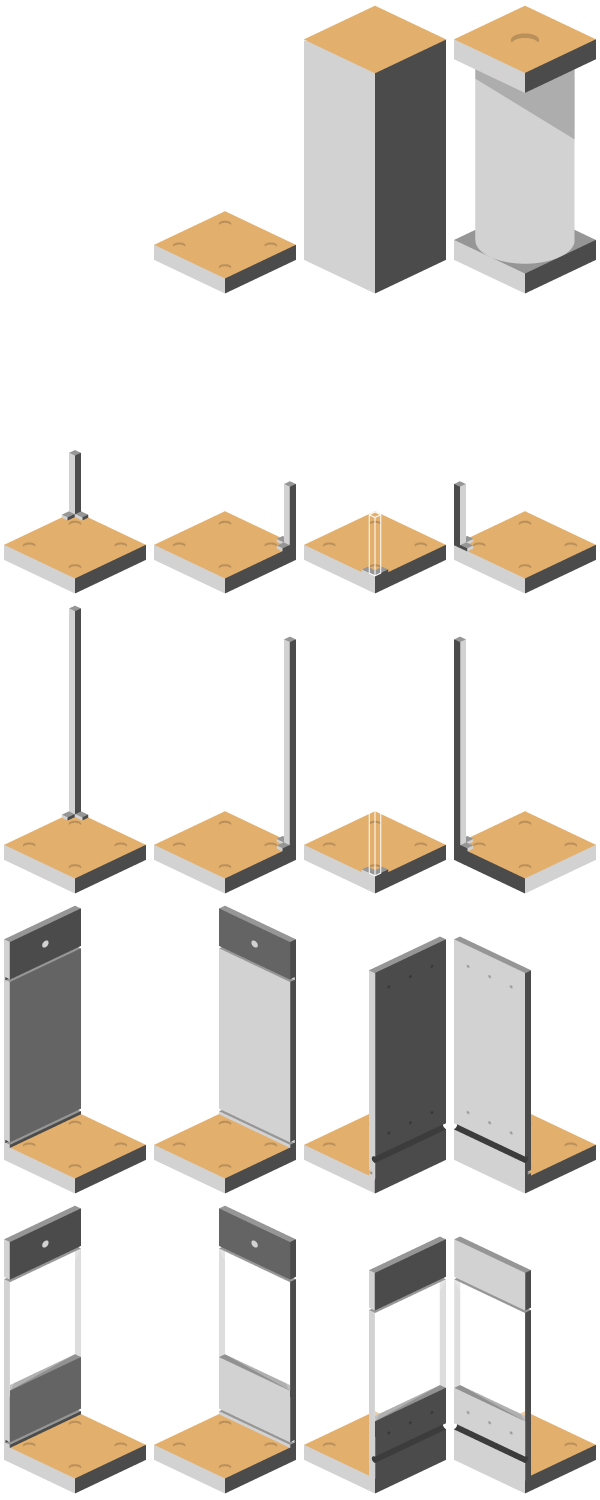
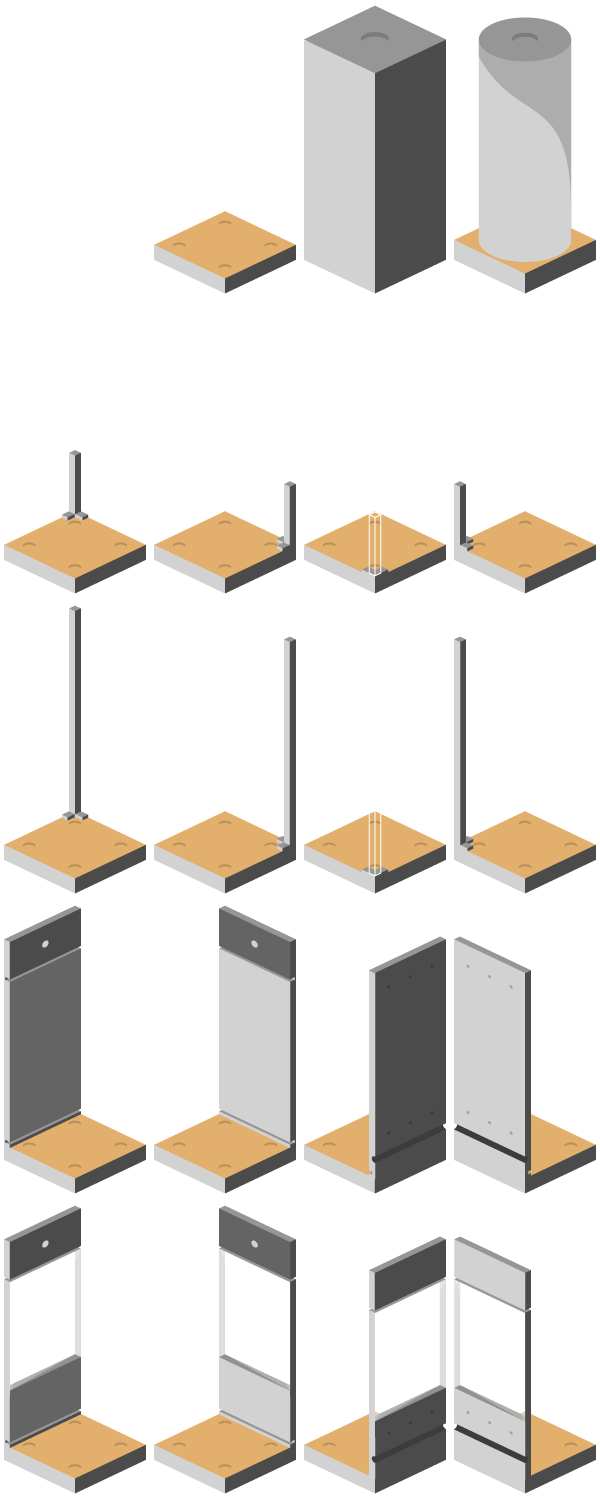
flip textures
Shift to outlined walls surrounding the character

diff --git a/js/levels_new.js b/js/levels_new.js
@@ -56,14 +56,14 @@ floor_1[0]=[,,,,,,,,,,,,,,,,,,,];
 floor_1[1]=[,,,,,,,,,,,,,,,,,,,];
 floor_1[2]=[,,,,,,,,,,,,,,,,,,,];
 floor_1[3]=[,,,,,,,,,,,,,,,,,,,];
-floor_1[4]=[,,,,29,18,378,378,378,378,25,142,150,154,158,30,,,,];
+floor_1[4]=[,,,,29,18,378,378,378,378,25,14,14,14,14,30,,,,];
 floor_1[5]=[,,,,17,2,2,2,2,2,2,2,2,2,2,19,,,,];
 floor_1[6]=[,,,,28,16,12,2,2,2,2,2,2,2,2,19,,,,];
-floor_1[7]=[,,,,97,137,13,169,171,2,169,171,2,2,2,19,,,,];
-floor_1[8]=[,,,,93,133,13,169,171,2,169,171,2,2,2,19,,,,];
-floor_1[9]=[,,,,89,129,13,169,171,2,169,171,2,2,2,19,,,,];
-floor_1[10]=[,,,,85,125,13,169,171,2,169,171,2,2,2,19,,,,];
-floor_1[11]=[,,,,81,121,13,169,171,2,169,171,2,2,2,19,,,,];
+floor_1[7]=[,,,,97,137,13,2,2,2,2,2,2,2,2,19,,,,];
+floor_1[8]=[,,,,93,133,13,2,2,2,2,2,2,2,2,19,,,,];
+floor_1[9]=[,,,,89,129,13,2,2,2,2,2,2,2,2,19,,,,];
+floor_1[10]=[,,,,85,125,13,2,2,2,2,2,2,2,2,19,,,,];
+floor_1[11]=[,,,,81,121,13,2,2,2,2,2,2,2,2,19,,,,];
 floor_1[12]=[,,,,17,2,2,2,2,2,2,2,2,2,2,19,,,,];
 floor_1[13]=[,,,,17,2,2,2,2,2,2,2,2,2,2,19,,,,];
 floor_1[14]=[,,,,17,2,2,2,2,2,2,2,2,2,2,19,,,,];
@@ -72,42 +72,42 @@ floor_1[16]=[,,,,,,,,,,,,,,,,,,,];
 floor_1[17]=[,,,,,,,,,,,,,,,,,,,];
 floor_1[18]=[,,,,,,,,,,,,,,,,,,,];
 floor_1[19]=[,,,,,,,,,,,,,,,,,,,];
-floor_2[0]=[602,602,602,602,602,602,602,602,602,602,602,602,602,602,602,602,602,602,602,602];
-floor_2[1]=[602,549,542,542,542,542,542,542,542,542,542,542,542,542,542,542,542,542,550,602];
-floor_2[2]=[602,541,601,601,601,601,601,601,601,601,601,601,601,601,601,601,601,601,543,602];
-floor_2[3]=[602,541,601,601,601,601,601,601,601,601,601,601,601,601,601,601,601,601,543,602];
-floor_2[4]=[602,541,601,601,29,18,18,18,18,18,18,18,18,18,18,30,601,601,543,602];
-floor_2[5]=[602,541,601,601,17,2,2,2,2,2,2,2,2,2,2,19,601,601,543,602];
-floor_2[6]=[602,541,601,601,17,2,2,2,2,2,2,2,2,2,2,63,601,601,543,602];
-floor_2[7]=[602,541,601,601,17,2,2,2,2,2,2,2,2,2,2,67,601,601,543,602];
-floor_2[8]=[602,541,601,601,17,2,2,2,2,2,2,2,2,2,2,19,601,601,543,602];
-floor_2[9]=[602,541,601,601,17,2,2,2,2,2,2,2,2,2,2,19,601,601,543,602];
-floor_2[10]=[602,541,601,601,205,194,194,194,194,194,194,342,242,246,350,206,601,601,543,602];
-floor_2[11]=[602,541,601,601,193,182,182,182,182,182,182,182,182,182,182,195,601,601,543,602];
-floor_2[12]=[602,541,601,601,329,182,321,182,182,321,182,182,321,182,182,331,601,601,543,602];
-floor_2[13]=[602,541,601,601,329,182,321,182,182,321,182,182,321,182,182,331,601,601,543,602];
-floor_2[14]=[602,541,601,601,193,196,196,196,196,196,192,182,182,182,182,195,601,601,543,602];
-floor_2[15]=[602,541,601,601,208,284,288,292,296,300,208,196,196,196,196,207,601,601,543,602];
-floor_2[16]=[602,541,601,601,601,601,601,601,601,601,601,601,601,601,601,601,601,601,543,602];
-floor_2[17]=[602,541,601,601,601,601,601,601,601,601,601,601,601,601,601,601,601,601,543,602];
-floor_2[18]=[602,552,544,544,544,544,544,544,544,544,544,544,544,544,544,544,544,544,551,602];
-floor_2[19]=[602,602,602,602,602,602,602,602,602,602,602,602,602,602,602,602,602,602,602,602];
+floor_2[0]=[602,602,602,569,602,602,602,602,602,602,602,602,602,602,602,602,602,569,602,602];
+floor_2[1]=[602,602,602,569,602,563,602,563,602,563,602,563,602,563,602,563,602,569,602,602];
+floor_2[2]=[602,602,602,569,602,602,602,602,602,602,602,602,602,602,602,602,602,569,602,602];
+floor_2[3]=[602,602,602,549,542,542,542,542,542,542,542,542,542,542,542,542,542,550,602,602];
+floor_2[4]=[602,602,602,541,29,18,18,18,18,18,18,18,18,18,18,30,601,543,602,602];
+floor_2[5]=[602,602,602,541,17,2,2,2,2,2,2,2,2,2,2,19,601,543,602,602];
+floor_2[6]=[602,602,602,541,17,2,2,2,2,2,2,2,2,2,2,63,601,543,602,602];
+floor_2[7]=[602,602,602,541,369,367,2,2,2,2,2,2,2,2,2,67,601,543,602,602];
+floor_2[8]=[602,602,602,541,409,367,2,2,2,2,2,2,2,2,2,19,601,543,602,602];
+floor_2[9]=[602,602,602,541,409,367,2,2,2,2,2,2,2,2,2,19,601,543,602,602];
+floor_2[10]=[602,602,602,541,409,0,205,198,198,198,198,342,242,246,350,210,601,543,602,602];
+floor_2[11]=[602,602,602,541,420,0,217,182,182,182,182,182,182,182,182,199,601,543,602,602];
+floor_2[12]=[602,602,602,541,420,0,217,182,182,182,182,182,182,182,182,199,601,543,602,602];
+floor_2[13]=[602,602,602,541,420,0,208,196,196,196,196,182,182,182,182,199,601,543,602,602];
+floor_2[14]=[602,602,602,541,183,183,320,316,312,308,304,182,182,182,182,199,601,543,602,602];
+floor_2[15]=[602,602,602,541,183,183,280,276,272,268,264,200,200,200,200,211,601,543,602,602];
+floor_2[16]=[602,602,602,552,544,544,544,544,544,544,544,544,544,544,544,544,544,551,602,602];
+floor_2[17]=[602,602,602,569,602,602,602,602,602,602,602,602,602,602,602,602,602,569,602,602];
+floor_2[18]=[602,602,602,569,602,563,602,563,602,563,602,563,602,563,602,563,602,569,602,602];
+floor_2[19]=[602,602,602,569,602,602,602,602,602,602,602,602,602,602,602,602,602,569,602,602];
 floor_3[0]=[,,,,,,,,,,,,,,,,,,,];
 floor_3[1]=[,,,,,,,,,,,,,,,,,,,];
 floor_3[2]=[,,,,,,,,,,,,,,,,,,,];
 floor_3[3]=[,,,,,,,,,,,,,,,,,,,];
-floor_3[4]=[,,,,870,862,862,862,862,862,862,862,862,862,862,870,,,,];
-floor_3[5]=[,,,,825,821,821,821,821,821,821,821,821,821,821,827,,,,];
-floor_3[6]=[,,,,825,821,821,821,821,821,821,821,821,821,821,827,,,,];
-floor_3[7]=[,,,,825,881,821,821,821,821,821,821,821,821,821,827,,,,];
-floor_3[8]=[,,,,829,821,821,821,821,821,821,821,821,821,821,831,,,,];
-floor_3[9]=[,,,,825,821,821,821,821,821,821,821,821,821,821,827,,,,];
-floor_3[10]=[,,,,825,821,821,821,821,821,821,821,821,821,821,827,,,,];
-floor_3[11]=[,,,,829,821,821,821,821,821,821,821,821,821,821,831,,,,];
-floor_3[12]=[,,,,825,821,821,821,821,821,821,821,821,821,821,827,,,,];
-floor_3[13]=[,,,,825,821,821,821,821,821,821,821,821,821,821,827,,,,];
-floor_3[14]=[,,,,825,821,821,821,821,821,821,821,821,821,821,827,,,,];
-floor_3[15]=[,,,,872,864,864,864,864,864,864,864,864,864,868,872,,,,];
+floor_3[4]=[,,,,641,646,646,646,646,646,646,646,646,646,646,642,,,,];
+floor_3[5]=[,,,,645,718,718,718,718,718,718,718,718,718,718,647,,,,];
+floor_3[6]=[,,,,645,718,718,718,718,718,718,718,718,718,718,647,,,,];
+floor_3[7]=[,,,,645,718,718,718,718,718,718,718,718,718,718,647,,,,];
+floor_3[8]=[,,,,645,718,718,718,718,718,718,718,718,718,718,647,,,,];
+floor_3[9]=[,,,,644,648,652,656,656,656,660,648,688,648,648,643,,,,];
+floor_3[10]=[,,,,217,182,182,182,182,182,182,182,182,182,182,219,,,,];
+floor_3[11]=[,,,,217,182,182,182,182,182,182,182,182,182,182,219,,,,];
+floor_3[12]=[,,,,217,182,182,182,182,182,182,182,182,182,182,219,,,,];
+floor_3[13]=[,,,,217,182,182,182,182,182,182,182,182,182,182,219,,,,];
+floor_3[14]=[,,,,217,182,366,366,366,366,362,182,182,182,182,219,,,,];
+floor_3[15]=[,,,,208,220,372,412,412,412,419,220,220,220,220,207,,,,];
 floor_3[16]=[,,,,,,,,,,,,,,,,,,,];
 floor_3[17]=[,,,,,,,,,,,,,,,,,,,];
 floor_3[18]=[,,,,,,,,,,,,,,,,,,,];

diff --git a/js/player_move.js b/js/player_move.js
@@ -24,21 +24,17 @@ function showNPC(pos,floor){
 	$('#selec'+floor+'_'+pos.y+'_'+pos.x).css('display','none');
 };
 
-//var 	posA={y:15,x:10};
-//var	posB={y:"",x:""};
-//var	npcA={y:7, x:12};
-//var	playerOr=1;
-
 function clickTile(floor){
 	$('.tileSelec').click(function(){
+		var lim=eval('floor_'+floor).length;
 		$('.tileSelec').hide();
 		$('.mapObj').remove();
 		var newPos={y:parseInt($(this).attr('ypos')),x:parseInt($(this).attr('xpos'))};
 		var newOri=rotatePlayerPos(Player.cam, Player.coord,20);
 		var	color=getColor(rotateLevel(eval('floor_'+floor),Player.cam)[newOri.y][newOri.x]);
-		console.log("click: "+newPos.y+","+newPos.x);
+		/*console.log("click: "+newPos.y+","+newPos.x);
 		console.log("from: "+newOri.y+","+newOri.x);
-		console.log(color);
+		console.log(color);*/
 		var	arr=[];
 		arr=rotateLevel(eval('floor_'+floor),Player.cam);
 		$('#buttons').fadeOut('fast');
@@ -51,6 +47,8 @@ function clickTile(floor){
 		}else{
 			console.log(route);
 		}
+		clearWalls(lim,"show");
+		//restoreWalls(lim,newOri,floor);
 	});
 };
 
@@ -79,7 +77,7 @@ function playerFace(val,type){
 function getDepths(route,f){
 	var	a=[];
 	//console.log(route.length);
-		//a[0]=parseInt($('#tile'+f+"_"+posA.y+"_"+posA.x).css('z-index'));
+	//a[0]=parseInt($('#tile'+f+"_"+posA.y+"_"+posA.x).css('z-index'));
 	//a.push("p: "+parseInt($('#tile'+f+"_"+posA.y+"_"+posA.x).css('z-index')));
 	for(var r=0;r<route.length;r++){
 		var	uno=parseInt($('#tile'+f+"_"+route[r].y+"_"+route[r].x).css('z-index')),
@@ -105,7 +103,8 @@ function processToMove(route,floor,newPos){
 	var	mt=$('#tile'+floor+"_"+route[ptm].y+"_"+route[ptm].x),
 		mik={y: parseInt(mt.position().top),x: parseInt(mt.position().left)},
 		px="px",
-		dep=parseInt(mt.css('z-index'));
+		dep=parseInt(mt.css('z-index')),
+		lang=eval("floor_"+floor).length;
 
 	var lal=getDepths(route,floor);
 	
@@ -135,19 +134,19 @@ function processToMove(route,floor,newPos){
 		ptm=0;
 
 		//////////update new position///////////////
-		//Player.coord=newPos;
 		switch(Player.cam){
 			case 'ori': Player.coord=newPos; break;
-			case 'rev': Player.coord=rotatePlayerPos('rot',newPos,20); break;
-			case 'rot': Player.coord=rotatePlayerPos('rev',newPos,20); break;
-			case 'inv': Player.coord=rotatePlayerPos('inv',newPos,20); break;
+			case 'rev': Player.coord=rotatePlayerPos('rot',newPos,lang); break;
+			case 'rot': Player.coord=rotatePlayerPos('rev',newPos,lang); break;
+			case 'inv': Player.coord=rotatePlayerPos('inv',newPos,lang); break;
+			default: break;
 		}
-		//Player.coord=rotatePlayerPos(current_dir, newPos,20);
 		Player.face=face;
-		
+		clearWalls(lang,"hide");
+
 		/////////reveal selectors////////////
 		$('.tileSelec').show();
-		$('#selec'+floor+"_"+Player.y+"_"+Player.x).hide();
+		$('#selec'+floor+"_"+newPos.y+"_"+newPos.x).hide();
 
 		var pep=setTimeout(function(){playerFace(face,"c")},animPlayTime,clearInterval(pep));
 		$('#buttons').fadeIn('fast');
@@ -155,7 +154,106 @@ function processToMove(route,floor,newPos){
 		//startPlayer(floor,newPos,farbe);
 	};
 };
+function getNeighTiles(f,pos,lim){
+	var a=[];
+	for(var g=0;g<=8;g++){
+		var	y=neighNodes(g).y+pos.y,
+			x=neighNodes(g).x+pos.x;
+		if(y>=0 && y<lim || x>=0 && x<lim){
+			var value=eval('floor_'+f)[y][x];
+			if(rotableWalls(getColor(value), value)){
+				a.push({y,x});
+			}
+		}if(g==8){
+			a.push(pos);
+		}
+	}
+	return a;
+}
+function clearWalls(lim,mode){
+	var	a=getNeighTiles(Player.floor,Player.coord,lim),
+		coord=rotatePlayerPos(Player.cam,Player.coord,lim),
+		farbe=getColor(eval('floor_'+Player.floor)[Player.coord.y][Player.coord.x]);
 
+	for(var h=0;h<a.length;h++){
+		var	newCoord=rotatePlayerPos(Player.cam,a[h],lim),
+			tile=$('#tile'+Player.floor+"_"+newCoord.y+"_"+newCoord.x),
+			lvl=parseInt(tile.attr('level')),
+			level=flipTileWall(Player.cam,lvl),
+			texture;
+		switch(mode){
+			case "hide": 
+				if(wallValue(farbe,lvl)==lvl){
+					texture=lvl;
+				}else{
+					texture=level+wallValue(farbe,lvl);
+				}
+				//tile.hide();
+				tile.attr('class','txt'+Math.abs(texture)); 
+				break;
+			case "show":
+				if(lvl>2 && lvl<181){
+					texture=lvl+level;
+				}else{
+					texture=lvl;
+				}
+				//tile.hide();
+				tile.attr('class','txt'+Math.abs(texture));
+				break;
+		}	
+	}
+}
+function wallValue(farbe,val){
+	var p=0;
+	if(farbe=="yellow"){
+		if(val>2 && val<37) p=24;
+		if(val>60 && val<69) p=8;
+		if(val>80 && val<121) p=20;
+	}
+////////////rest of color ranges here 
+
+
+////////////////////////////////////////////////
+	return val+p;
+}
+function flipTileWall(cam,value){
+	var p;
+	switch(cam){
+		case "rot":
+			if(value%4==0) p=-3;
+			else p=1;
+			break;
+		case "rev":
+			if(value%4==1) p=+3;
+			else p=-1;
+			break;
+		case "inv":
+			if(value%4==0) p=-2;
+			if(value%4==3) p=-2;
+			if(value%4==2) p=+2;
+			if(value%4==1) p=+2;
+			break;
+		case "ori":
+			p=0;
+			break;
+		default: break;
+	}
+	return parseInt(p);
+}
+
+function rotableWalls(farbe,val){
+	switch(farbe){
+		case 'yellow':
+			if(val>12 && val<37 || val>60 && val<69 || val>80 && val<121){
+			return true;
+		}break;
+		////////////rest of color ranges here 
+
+
+		////////////////////////////////////////////////
+		default: return false; break;
+	}
+}
 
 function actionValidate(val){
 	var actions=[

diff --git a/js/level_generator.js b/js/level_generator.js
@@ -93,9 +93,9 @@ function createLevel(arr,tar,clase,height,width,tileName,f,typ){
 			var	y=kak[h][p][0],
 				x=kak[h][p][1],
 				tile=kek[y][x];
-			if(tile>12 && tile<37 || tile>192 && tile<217){
-				tile+=24;
-			}
+			// if(tile>12 && tile<37 || tile>192 && tile<217){
+			// 	tile+=24;
+			// }
 
 			$('#'+tar).append('<tile id="'+tileName+f+"_"+y+"_"+x+'" class="'+clase+tile+'" level="'+tile+'" fpos="'+1+'" ypos="'+y+'" xpos="'+x+'"></tile>');			
 			$('#'+tileName+f+"_"+y+"_"+x).css({
@@ -114,7 +114,7 @@ function enterInstance(color){
 function instanceColor(val,color){
 	switch(color){
 		case 'yellow': 
-			if(val==2 || val>4 && val<61){
+			if(val==2 || val>4 && val<80){
 				return true;
 			}break; 
 
@@ -142,7 +142,7 @@ function instanceColor(val,color){
 	}
 }
 function getColor(val){
-	if(val==2 || val>4 && val<61) return 'yellow';
+	if(val==2 || val>4 && val<80) return 'yellow';
 	if(val==182 || val>184 && val<361) return 'red';
 	if(val==445 || val==446) return 'green';
 	if(val==290 || val>199 && val<361) return 'blue';
@@ -158,9 +158,9 @@ function createSelectors(f,leng,color){
 				name='selec'+f+'_'+j+"_"+k,
 				kak=sap.attr('level');
 			if(instanceColor(kak,color)){
-				selection.append('<div class="tileSelec" id="'+name+'" ypos="'+j+'" xpos="'+k+'">'+j+","+k+'</div>');
-				//selection.append('<div class="tileSelec" id="'+name+'" ypos="'+j+'" xpos="'+k+'"></div>');
-				$('#selec'+f+"_"+Player.y+"_"+Player.x).hide();
+				//selection.append('<div class="tileSelec" id="'+name+'" ypos="'+j+'" xpos="'+k+'">'+j+","+k+'</div>');
+				selection.append('<div class="tileSelec" id="'+name+'" ypos="'+j+'" xpos="'+k+'"></div>');
+				//$('#selec'+f+"_"+Player.y+"_"+Player.x).hide();
 				$('#'+name).css({
 					top: sap.offset().top+226+"px",
 					left: sap.offset().left+35+"px"
@@ -275,10 +275,8 @@ function playerAttr(y,x,face,cam,floor){
 	this.cam=cam;
 	this.floor=floor;
 	this.coord={y,x};
-	this.set_y=function(e){this.coord.y=e};
-	this.set_x=function(e){this.coord.x=e};
 }
-var Player=new playerAttr(15,10,1,'ori',1);
+var Player=new playerAttr(7,7,1,'ori',2);
 
 $(document).ready(function(){
 	assignStyles();
@@ -356,33 +354,12 @@ function flipClass(arr,f,typ){
 		for(var i=0;i<arr[0].length; i++){
 			var t=arr[g][i];
 			if(
-			t>4 && t<177 || t>185 && t<353 || t>360 && t<425 || 
+			t>4 && t<181 || t>185 && t<353 || t>360 && t<425 || 
 			t>540 && t<581 || t>640 && t<717 ||
 			t>724 && t<797 || t>824 && t<885
 			){////yellow
-				var p;
-				switch(typ){
-					case "rot":
-						if(arr[g][i]%4==0) p=-3;
-						else p=1;
-						break;
-					case "rev":
-						if(arr[g][i]%4==1) p=+3;
-						else p=-1;
-						break;
-					case "inv":
-						if(arr[g][i]%4==0) p=-2;
-						if(arr[g][i]%4==3) p=-2;
-						if(arr[g][i]%4==2) p=+2;
-						if(arr[g][i]%4==1) p=+2;
-						break;
-					case "ori":
-						p=0;
-						break;
-					default: break;
-				}
 				var tile=$('#tile'+f+"_"+g+"_"+i);
-				tile.attr({class: "txt"+(parseInt(tile.attr('level'))+p)});
+				tile.attr({class: "txt"+(parseInt(tile.attr('level'))+flipTileWall(typ,arr[g][i]))});
 			}
 		}
 	}
